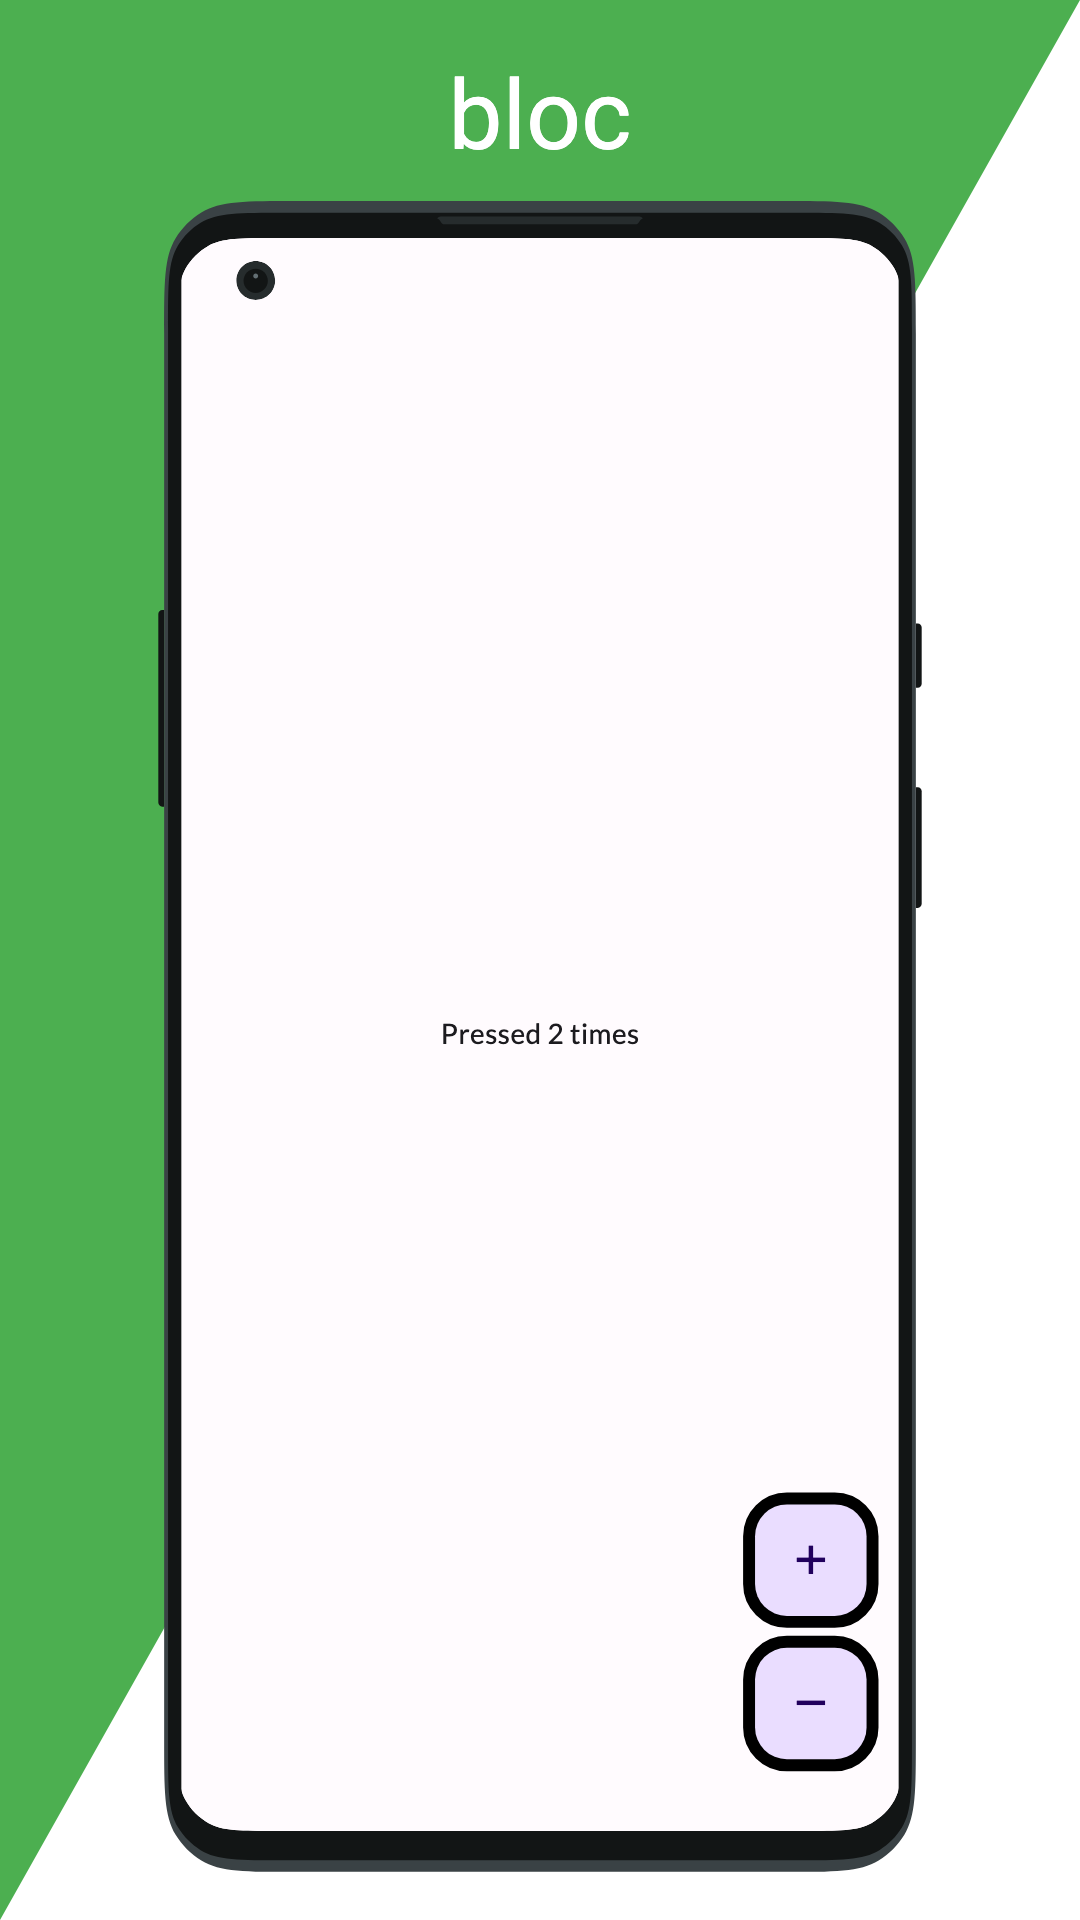
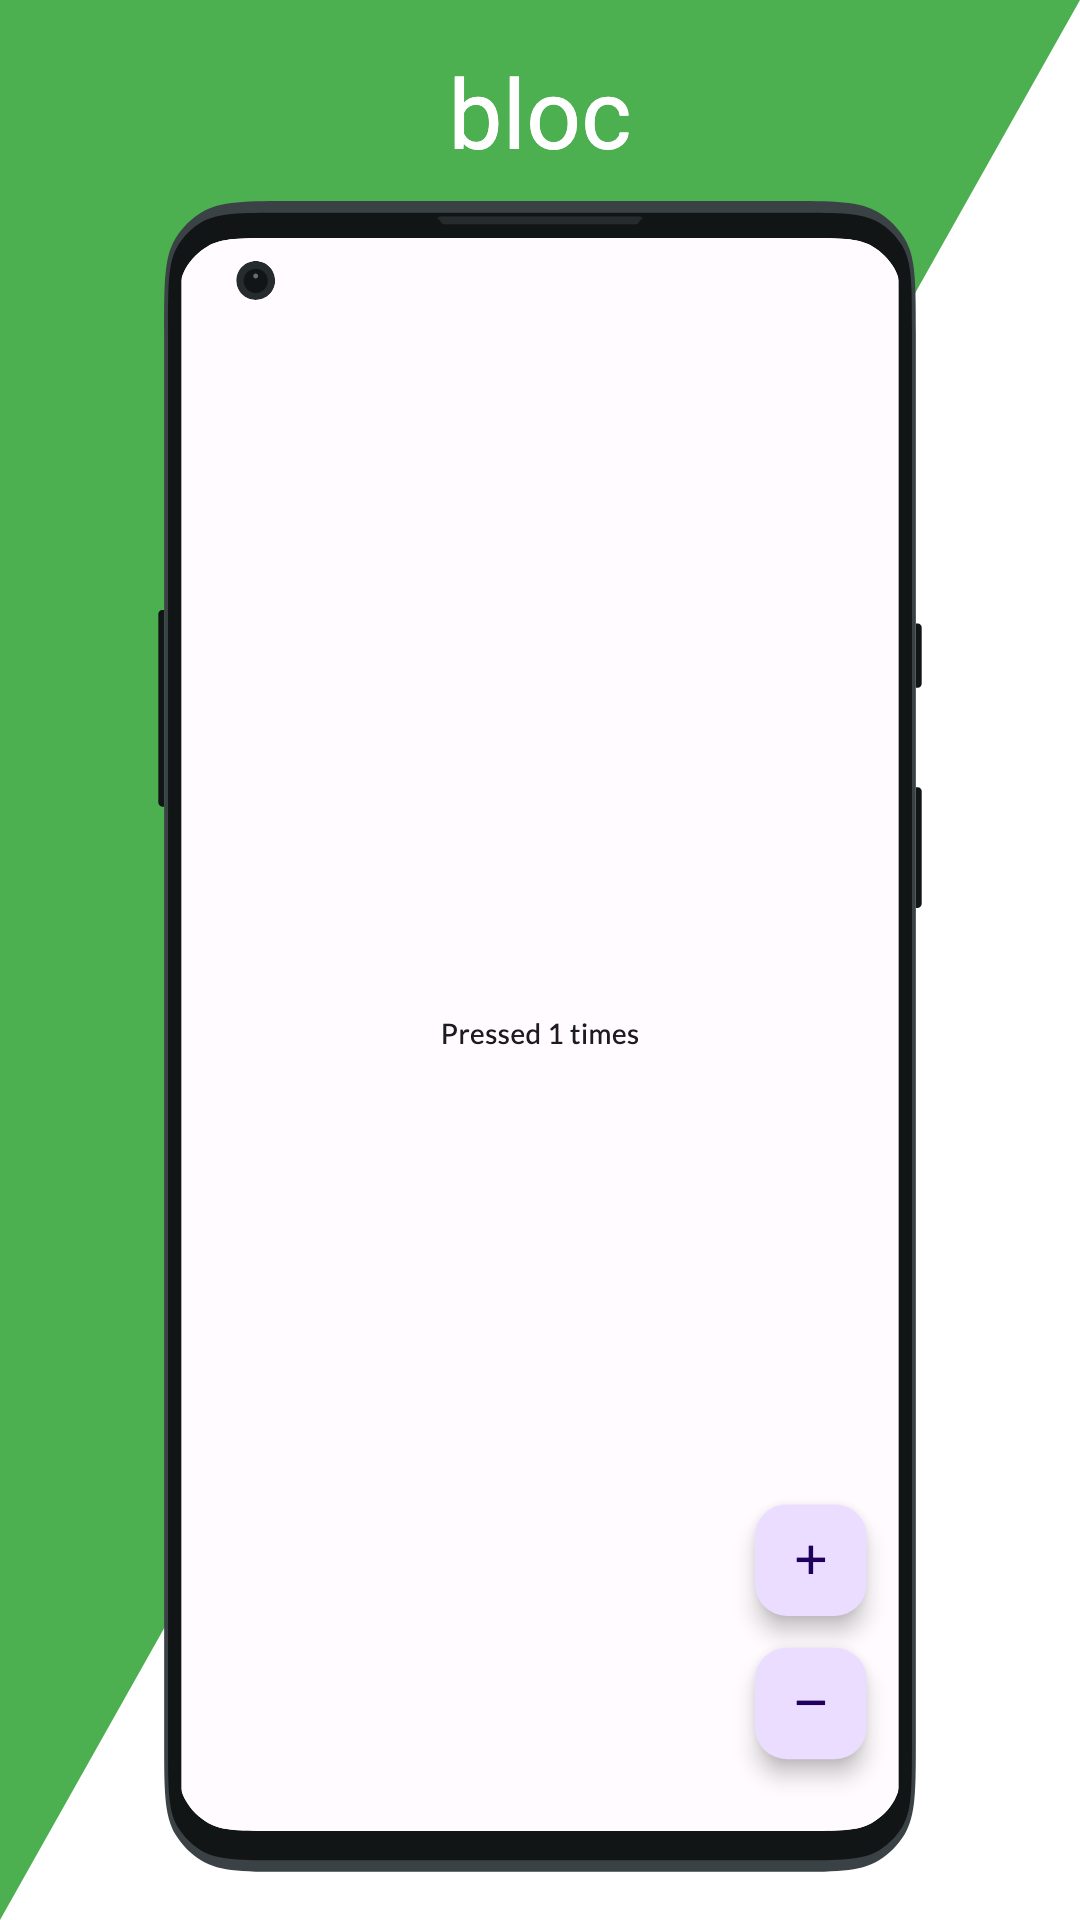
feature: Only generate assets when tag is specified (#4)
- Only generate assets when tag `app_store_screenshots` is specified
- Ensure shadows are drawn
- Ensures each screen-device-locale is a separate test to avoid any
re-used dependencies or tester scenarios
- Improve documentation

Changed region(s): [[0.6722, 0.75, 0.825, 0.9375]]

diff --git a/lib/src/generate_screenshots.dart b/lib/src/generate_screenshots.dart
@@ -9,6 +9,10 @@ import 'models.dart';
 import 'models.internal.dart';
 
 /// Generates [screen] number of screenshots with a given [config]
+///
+/// [onSetUp] is called before each screen is generated
+///
+/// [onTearDown] is called after each screen has been generated
 @isTest
 void generateAppStoreScreenshots({
   VoidCallback? onSetUp,
@@ -17,49 +21,53 @@ void generateAppStoreScreenshots({
   VoidCallback? onTearDown,
   bool? skip,
 }) {
-  testGoldens(
-    'Generate screenshots',
-    (tester) async {
-      await loadAppFonts();
+  for (final screen in screens) {
+    final screenshotNumber = screens.indexOf(screen) + 1;
+    for (final device in config.devices) {
+      for (final locale in config.locales) {
+        testGoldensWithShadows(
+          () => testGoldens(
+            'Generate screenshot $screenshotNumber ${device.name} $locale',
+            (tester) async {
+              await loadAppFonts();
+              onSetUp?.call();
 
-      onSetUp?.call();
-
-      for (final screen in screens) {
-        final screenshotNumber = screens.indexOf(screen) + 1;
-        for (final device in config.devices) {
-          for (final locale in config.locales) {
-            await takeScreenshot(
-              tester: tester,
-              widget: createScreenshot(
-                background: screen.background ?? config.background,
-                text: screen.text[locale],
-                screenContents: createScreenContents(
-                  onBuildScreen: screen.onBuildScreen,
-                  wrapper: screen.wrapper,
-                  locale: locale,
-                  platform: device.platform,
-                  theme: screen.theme ?? config.theme,
-                  localizationsDelegates: config.localizationsDelegates,
-                  supportedLocales: config.locales,
+              await takeScreenshot(
+                tester: tester,
+                widget: createScreenshot(
+                  background: screen.background ?? config.background,
+                  text: screen.text[locale],
+                  screenContents: createScreenContents(
+                    onBuildScreen: screen.onBuildScreen,
+                    wrapper: screen.wrapper,
+                    locale: locale,
+                    platform: device.platform,
+                    theme: screen.theme ?? config.theme,
+                    localizationsDelegates: config.localizationsDelegates,
+                    supportedLocales: config.locales,
+                  ),
+                  height: device.size.height,
+                  deviceFrame: device.frame,
+                  isFrameVisible: screen.isFrameVisible,
+                  orientation: device.orientation,
+                  textStyle: screen.textStyle ?? config.textStyle,
                 ),
-                height: device.size.height,
-                deviceFrame: device.frame,
-                isFrameVisible: screen.isFrameVisible,
-                orientation: device.orientation,
-                textStyle: screen.textStyle ?? config.textStyle,
-              ),
-              onPostPumped: screen.onPostPumped,
-              name: p.join('screenshots', device.name, locale.languageCode, 'screenshot_$screenshotNumber'),
-              size: device.size,
-            );
-          }
-        }
+                onPostPumped: screen.onPostPumped,
+                name: p.join('screenshots', device.name, locale.languageCode, 'screenshot_$screenshotNumber'),
+                size: device.size,
+              );
+
+              onTearDown?.call();
+
+              // once all goldens are generated, move to target folder
+              if (screen == screens.last && device == config.devices.last && locale == config.locales.last) {
+                moveGoldens('screenshots');
+              }
+            },
+            skip: skip,
+          ),
+        );
       }
-
-      moveGoldens('screenshots');
-
-      onTearDown?.call();
-    },
-    skip: skip,
-  );
+    }
+  }
 }

diff --git a/lib/src/generate_app_icons.dart b/lib/src/generate_app_icons.dart
@@ -11,24 +11,26 @@ void generateAppIcon({
   required AppIconBuilder onBuildIcon,
   bool? skip,
 }) {
-  testGoldens(
-    'Generate app icon',
-    (tester) async {
-      await loadAppFonts();
+  testGoldensWithShadows(
+    () => testGoldens(
+      'Generate app icon',
+      (tester) async {
+        await loadAppFonts();
 
-      const size = Size(512, 512);
-      await tester.pumpWidgetBuilder(
-        SizedBox.fromSize(
-          size: size,
-          child: onBuildIcon(),
-        ),
-        surfaceSize: size,
-      );
-      await screenMatchesGolden(tester, 'app_icons/app_icon');
+        const size = Size(512, 512);
+        await tester.pumpWidgetBuilder(
+          SizedBox.fromSize(
+            size: size,
+            child: onBuildIcon(),
+          ),
+          surfaceSize: size,
+        );
+        await screenMatchesGolden(tester, 'app_icons/app_icon');
 
-      moveGoldens('app_icons', replaceAllFiles: false);
-    },
-    skip: skip,
+        moveGoldens('app_icons', replaceAllFiles: false);
+      },
+      skip: skip,
+    ),
   );
 }
 
@@ -41,33 +43,35 @@ void generateAppIconAndroidForeground({
   EdgeInsets padding = const EdgeInsets.all(80),
   bool? skip,
 }) {
-  testGoldens(
-    'Generate android icon foreground',
-    (tester) async {
-      await loadAppFonts();
+  testGoldensWithShadows(
+    () => testGoldens(
+      'Generate android icon foreground',
+      (tester) async {
+        await loadAppFonts();
 
-      const size = Size(512, 512);
-      await tester.pumpWidgetBuilder(
-        SizedBox.fromSize(
-          size: size,
-          child: Padding(
-            padding: padding,
-            child: onBuildIcon(),
+        const size = Size(512, 512);
+        await tester.pumpWidgetBuilder(
+          SizedBox.fromSize(
+            size: size,
+            child: Padding(
+              padding: padding,
+              child: onBuildIcon(),
+            ),
           ),
-        ),
-        surfaceSize: size,
-        wrapper: (child) => MaterialApp(
-          debugShowCheckedModeBanner: false,
-          home: Material(
-            color: Colors.transparent,
-            child: child,
+          surfaceSize: size,
+          wrapper: (child) => MaterialApp(
+            debugShowCheckedModeBanner: false,
+            home: Material(
+              color: Colors.transparent,
+              child: child,
+            ),
           ),
-        ),
-      );
-      await screenMatchesGolden(tester, 'app_icons/android_icon_foreground');
+        );
+        await screenMatchesGolden(tester, 'app_icons/android_icon_foreground');
 
-      moveGoldens('app_icons', replaceAllFiles: false);
-    },
-    skip: skip,
+        moveGoldens('app_icons', replaceAllFiles: false);
+      },
+      skip: skip,
+    ),
   );
 }

diff --git a/lib/src/generate_google_play_assets.dart b/lib/src/generate_google_play_assets.dart
@@ -11,26 +11,28 @@ void generateGooglePlayFeatureGraphic({
   required GooglePlayFeatureGraphicBuilder onBuildGraphic,
   bool? skip,
 }) {
-  testGoldens(
-    'Generate Google Play Feature Graphic',
-    (tester) async {
-      await loadAppFonts();
+  testGoldensWithShadows(
+    () => testGoldens(
+      'Generate Google Play Feature Graphic',
+      (tester) async {
+        await loadAppFonts();
 
-      const size = Size(1024, 500);
-      for (final locale in locales) {
-        final filename = 'google_play_assets/google_play_feature_graphic_${locale.languageCode}';
-        await tester.pumpWidgetBuilder(
-          SizedBox.fromSize(
-            size: size,
-            child: onBuildGraphic(locale),
-          ),
-          surfaceSize: size,
-        );
-        await screenMatchesGolden(tester, filename);
-      }
+        const size = Size(1024, 500);
+        for (final locale in locales) {
+          final filename = 'google_play_assets/google_play_feature_graphic_${locale.languageCode}';
+          await tester.pumpWidgetBuilder(
+            SizedBox.fromSize(
+              size: size,
+              child: onBuildGraphic(locale),
+            ),
+            surfaceSize: size,
+          );
+          await screenMatchesGolden(tester, filename);
+        }
 
-      moveGoldens('google_play_assets');
-    },
-    skip: skip,
+        moveGoldens('google_play_assets');
+      },
+      skip: skip,
+    ),
   );
 }

diff --git a/lib/src/common.dart b/lib/src/common.dart
@@ -1,6 +1,7 @@
 import 'dart:io';
 
 import 'package:flutter_test/flutter_test.dart';
+import 'package:golden_toolkit/golden_toolkit.dart';
 import 'package:meta/meta.dart';
 import 'package:path/path.dart' as p;
 
@@ -47,3 +48,12 @@ void moveGoldens(
 
 @visibleForTesting
 Iterable<File> filesForDir(Directory dir) => dir.listSync(recursive: true).whereType<File>();
+
+/// Test [body] with shadows enabled & default tags
+void testGoldensWithShadows<T>(T Function() body) => GoldenToolkit.runWithConfiguration(
+      body,
+      config: GoldenToolkitConfiguration(
+        enableRealShadows: true,
+        tags: const ['app_store_screenshots'],
+      ),
+    );

diff --git a/README.md b/README.md
@@ -13,13 +13,28 @@ A flutter tool to generate screenshots and other assets for app stores.
 </tr>
 </table>
 
+## About
+
+*app_store_screenshots* utilizes goldens, a Flutter testing tool, to generate assets:
+
+```sh
+flutter test --update-goldens --tags app_store_screenshots
+```
+
+To ensure that these tests do not interfere with your testing pipeline, exclude the tag `app_store_screenshots`:
+
+```sh
+flutter test --exclude-tags app_store_screenshots
+```
+
 ## Getting Started
 
-Add dependency
+Add dependency:
 
 ```yaml
-app_store_screenshots:
-    git: https://github.com/defuncart/app_store_screenshots
+dev_dependency:
+  app_store_screenshots:
+      git: https://github.com/defuncart/app_store_screenshots
 ```
 
 ### Screenshots
@@ -65,19 +80,7 @@ void main() {
 }
 ```
 
-Generate screenshots using
-
-```sh
-flutter test test/app_store_screenshots/ --update-goldens
-```
-
-or
-
-```sh
-dart run app_store_screenshots:screenshots
-```
-
-Screenshots can bee found in `assets_dev/screenshots`.
+Screenshots can be found in `assets_dev/screenshots`.
 
 See [example/test/app_store_screenshots/generate_screenshots_test.dart](example/test/app_store_screenshots/generate_screenshots_test.dart) for full example.
 
@@ -105,7 +108,7 @@ See [example/test/app_store_screenshots/generate_screenshots_test.dart](example/
 | macOS                    |                    | 1920x1080  | Laptop          |
 | windows                  |                    | 1920x1080  | Laptop          |
 
-¹ Incorrect frame but correct resolution
+¹Incorrect frame but correct resolution
 
 ### App Icon
 

diff --git a/example/README.md b/example/README.md
@@ -1,3 +1,5 @@
 # example
 
 An example for `app_store_screenshots` package.
+
+Run `flutter test --update-goldens --tags app_store_screenshots` to generate all assets.
